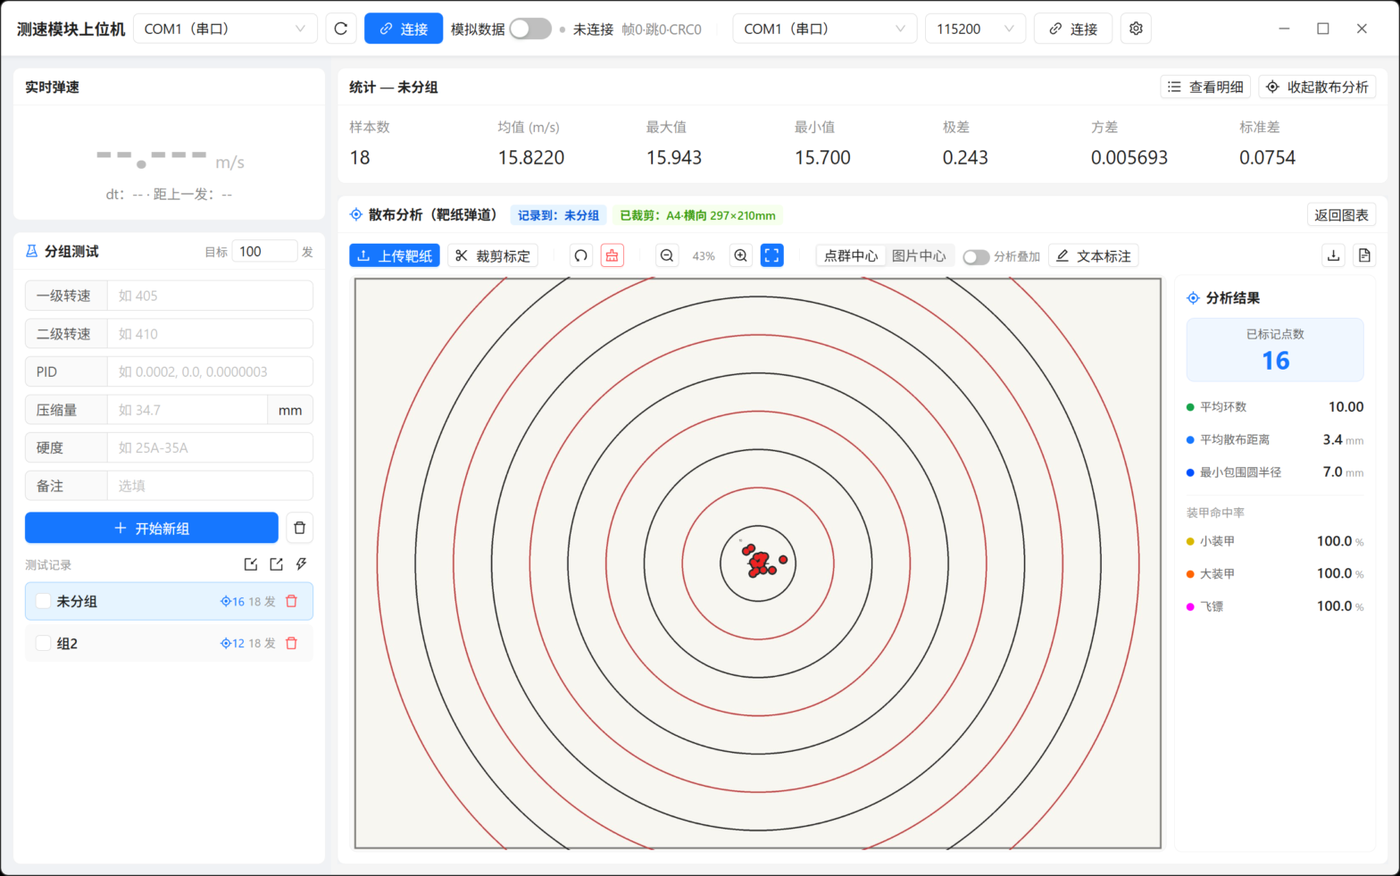
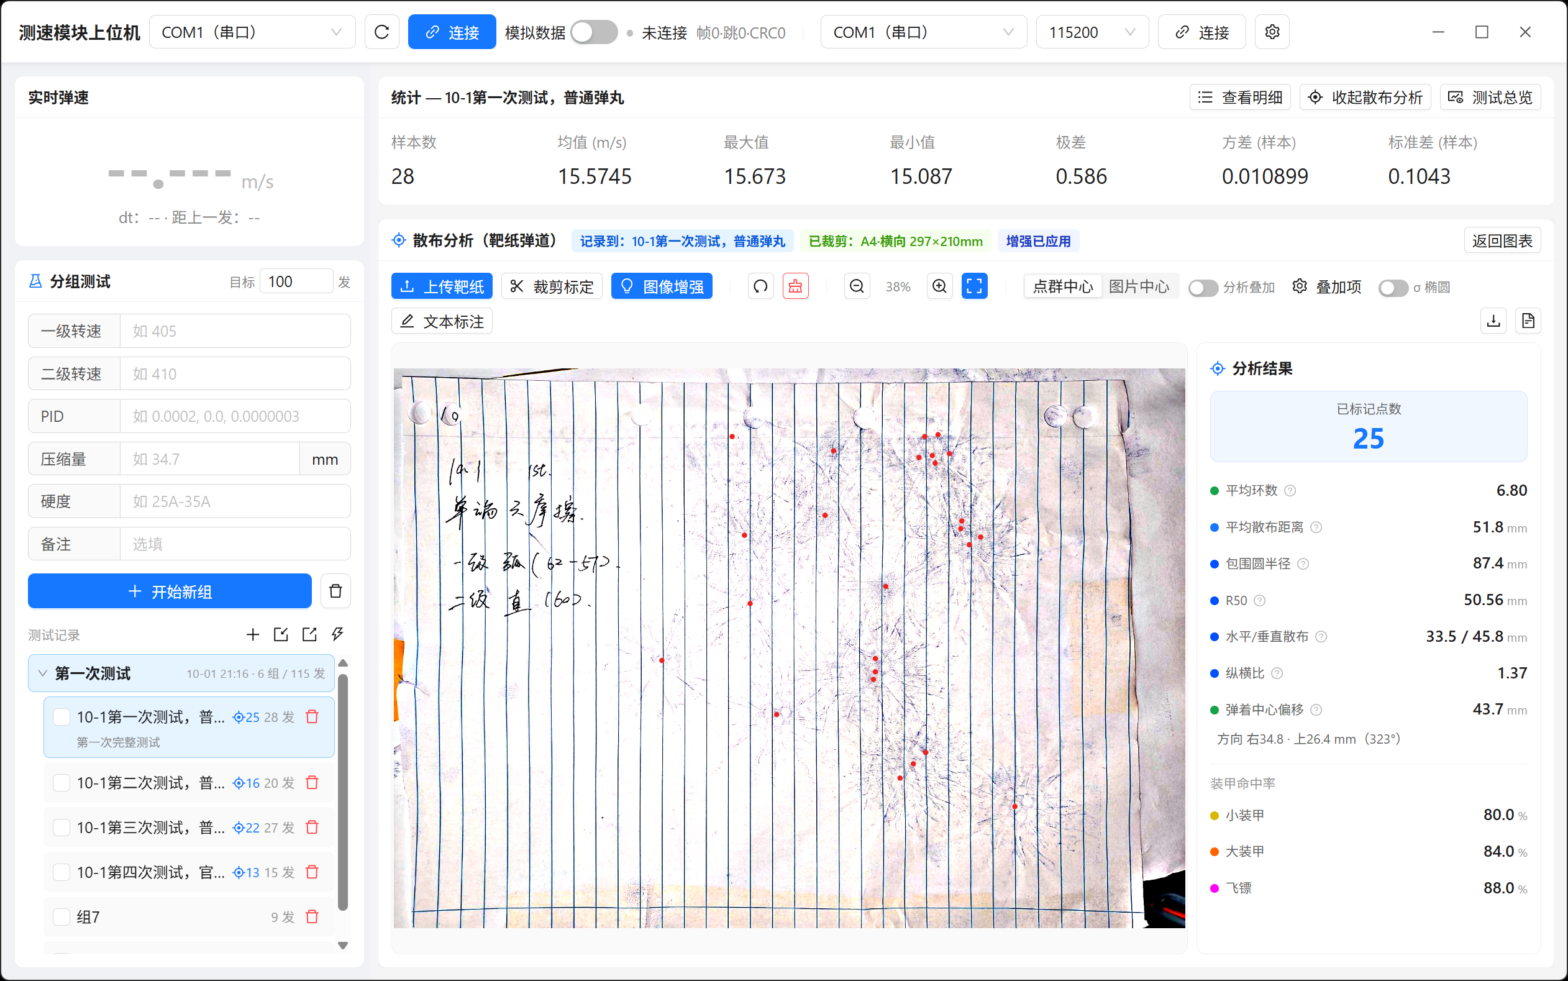
修窗口缩放后布局错位：整页锁定 100vh 不再出现页面级滚动；散布画布适配测量加防抖与异常值过滤（改窗口途中量到 0 直接跳过）并在 window resize 时重算；DispersionPanel 不再导出非组件常量（此前破坏 Fast Refresh，热更新会留下半新半旧的元素）；分析结果栏 208px→clamp(260~330)，标签精简+悬浮说明，方向行压缩

diff --git a/src/components/DispersionPanel.tsx b/src/components/DispersionPanel.tsx
@@ -25,6 +25,7 @@ import {
   ExpandOutlined,
   FileImageOutlined,
   FileTextOutlined,
+  QuestionCircleOutlined,
   ScissorOutlined,
   SettingOutlined,
   UndoOutlined,
@@ -242,7 +243,7 @@ interface SigmaEllipse {
 }
 
 /** 分析叠加里可单独开关的图层 */
-export type OverlayLayer =
+type OverlayLayer =
   | "ringScore"
   | "center"
   | "rings"
@@ -251,9 +252,9 @@ export type OverlayLayer =
   | "dart"
   | "mec";
 
-export type OverlayFlags = Record<OverlayLayer, boolean>;
+type OverlayFlags = Record<OverlayLayer, boolean>;
 
-export const OVERLAY_LAYERS: {
+const OVERLAY_LAYERS: {
   key: OverlayLayer;
   label: string;
   color?: string;
@@ -272,7 +273,7 @@ export const OVERLAY_LAYERS: {
   { key: "mec", label: "最小包围圆", color: COLORS.mec, hint: "包住全部弹孔的最小圆" },
 ];
 
-export const DEFAULT_OVERLAY: OverlayFlags = {
+const DEFAULT_OVERLAY: OverlayFlags = {
   ringScore: true,
   center: true,
   rings: true,
@@ -412,33 +413,45 @@ function MetricRow(props: {
   value: string;
   unit?: string;
   color: string;
+  /** 悬浮说明：解释文字收进 tooltip，面板里只留标签，省横向空间 */
+  hint?: string;
 }) {
+  const body = (
+    <Space size={6}>
+      <span
+        style={{
+          width: 8,
+          height: 8,
+          borderRadius: 4,
+          background: props.color,
+          display: "inline-block",
+        }}
+      />
+      <span style={{ fontSize: 12, color: "#666", whiteSpace: "nowrap" }}>
+        {props.label}
+      </span>
+      {props.hint && (
+        <QuestionCircleOutlined style={{ fontSize: 11, color: "#bbb" }} />
+      )}
+    </Space>
+  );
   return (
     <div
       style={{
         display: "flex",
         alignItems: "center",
         justifyContent: "space-between",
+        gap: 8,
         padding: "5px 0",
       }}
     >
-      <Space size={6}>
-        <span
-          style={{
-            width: 8,
-            height: 8,
-            borderRadius: 4,
-            background: props.color,
-            display: "inline-block",
-          }}
-        />
-        <span style={{ fontSize: 12, color: "#666" }}>{props.label}</span>
-      </Space>
+      {props.hint ? <Tooltip title={props.hint}>{body}</Tooltip> : body}
       <span
         style={{
           fontSize: 15,
           fontWeight: 600,
           fontVariantNumeric: "tabular-nums",
+          whiteSpace: "nowrap",
         }}
       >
         {props.value}
@@ -638,23 +651,29 @@ export default function DispersionPanel(props: { onBack: () => void }) {
     : { w: 0, h: 0 };
   const mmPerPx = natural.w > 0 ? effSpec.w / natural.w : 0;
 
-  // 适应模式：按容器实时计算显示尺寸（允许放大），容器变化时跟随
+  // 适应模式：按容器实时计算显示尺寸（允许放大）
+  // 容器 ResizeObserver + 窗口 resize 双保险；改窗口途中可能量到 0 或极小值，
+  // 这种异常测量直接跳过，避免把错误的比例存进 state 导致画面位置不对
   useEffect(() => {
     const el = wrapRef.current;
     if (!el || !img || !autoFit) return;
     const update = () => {
       const cw = el.clientWidth - 4;
       const ch = el.clientHeight - 4;
+      if (cw < 40 || ch < 40) return;
       const r = Math.min(cw / img.naturalWidth, ch / img.naturalHeight);
-      setFitSize({
-        w: Math.max(1, Math.round(img.naturalWidth * r)),
-        h: Math.max(1, Math.round(img.naturalHeight * r)),
-      });
+      const w = Math.max(1, Math.round(img.naturalWidth * r));
+      const h = Math.max(1, Math.round(img.naturalHeight * r));
+      setFitSize((prev) => (prev && prev.w === w && prev.h === h ? prev : { w, h }));
     };
     update();
     const ro = new ResizeObserver(update);
     ro.observe(el);
-    return () => ro.disconnect();
+    window.addEventListener("resize", update);
+    return () => {
+      ro.disconnect();
+      window.removeEventListener("resize", update);
+    };
   }, [img, autoFit]);
 
   /** 手动缩放时，以当前适应比例作为起点 */
@@ -1444,7 +1463,7 @@ export default function DispersionPanel(props: { onBack: () => void }) {
         {/* 结果区 */}
         <div
           style={{
-            width: 208,
+            width: "clamp(260px, 22vw, 330px)",
             flexShrink: 0,
             overflow: "auto",
             background: "#fff",
@@ -1483,58 +1502,66 @@ export default function DispersionPanel(props: { onBack: () => void }) {
           <MetricRow
             label="平均环数"
             color={COLORS.ring}
+            hint="每个弹孔到弹着中心的平均环数（每 14 mm 一环，10 环在中心）"
             value={analysis ? analysis.score.toFixed(2) : "-"}
           />
           <MetricRow
             label="平均散布距离"
             color="#1677ff"
+            hint="每个弹孔到弹着中心的平均距离，越小越集中"
             value={analysis ? analysis.avgDist.toFixed(1) : "-"}
             unit="mm"
           />
           <MetricRow
-            label="最小包围圆半径"
+            label="包围圆半径"
             color={COLORS.mec}
+            hint="包住全部弹孔的最小圆半径"
             value={analysis ? (analysis.mec.radius * mmPerPx).toFixed(1) : "-"}
             unit="mm"
           />
           <MetricRow
-            label="R50（半数落点半径）"
+            label="R50"
             color={COLORS.mec}
+            hint="半数落点半径：一半弹孔落在这个半径内，越小越密集"
             value={geo ? geo.r50.toFixed(2) : "-"}
             unit="mm"
           />
           <MetricRow
-            label="水平/垂直散布 Cx·Cy"
+            label="水平/垂直散布"
             color={COLORS.mec}
+            hint="Cx / Cy：落点在水平、垂直方向的样本标准差"
             value={geo ? `${geo.cx.toFixed(1)} / ${geo.cy.toFixed(1)}` : "-"}
             unit="mm"
           />
           <MetricRow
             label="纵横比"
             color={COLORS.mec}
+            hint="Cx ÷ Cy，> 1 表示横向比纵向散"
             value={geo ? geo.aspect.toFixed(2) : "-"}
             unit=""
           />
           <MetricRow
             label="弹着中心偏移"
             color={COLORS.center}
+            hint="点群重心相对靶纸中心的距离"
             value={geo ? geo.dist.toFixed(1) : "-"}
             unit="mm"
           />
           {geo && (
-            <div
-              style={{
-                fontSize: 12,
-                color: "#666",
-                padding: "2px 0 6px 6px",
-                lineHeight: 1.6,
-              }}
-            >
-              方向：{geo.dx >= 0 ? "右" : "左"}
-              {Math.abs(geo.dx).toFixed(1)} · {geo.dy >= 0 ? "下" : "上"}
-              {Math.abs(geo.dy).toFixed(1)} mm（{geo.angleDeg.toFixed(0)}
-              °，0°=正右，90°=正下）
-            </div>
+            <Tooltip title="以靶纸中心为原点，角度 0° 为正右、顺时针增大（90° 正下）">
+              <div
+                style={{
+                  fontSize: 12,
+                  color: "#666",
+                  padding: "2px 0 6px 6px",
+                  lineHeight: 1.5,
+                }}
+              >
+                方向 {geo.dx >= 0 ? "右" : "左"}
+                {Math.abs(geo.dx).toFixed(1)} · {geo.dy >= 0 ? "下" : "上"}
+                {Math.abs(geo.dy).toFixed(1)} mm（{geo.angleDeg.toFixed(0)}°）
+              </div>
+            </Tooltip>
           )}
           <Divider style={{ margin: "8px 0" }} />
           <div style={{ fontSize: 12, color: "#999", marginBottom: 2 }}>

diff --git a/src/App.tsx b/src/App.tsx
@@ -180,7 +180,9 @@ export default function App() {
   }, []);
 
   return (
-    <Layout style={{ minHeight: "100vh" }}>
+    // 固定视口高度、整页不滚动：所有超出都交给各区域内滚，
+    // 避免窗口最大化/还原后整页被滚动、元素跑到视口外
+    <Layout style={{ height: "100vh", overflow: "hidden" }}>
       <Header
         style={{
           background: "#fff",
@@ -188,6 +190,7 @@ export default function App() {
           boxShadow: "0 1px 4px rgba(0,21,41,0.08)",
           zIndex: 1,
           height: "auto",
+          flexShrink: 0,
           padding: 0,
           lineHeight: "normal",
         }}
@@ -210,12 +213,15 @@ export default function App() {
           <WindowControls />
         </div>
       </Header>
-      <Layout style={{ flexDirection: "row" }}>
+      <Layout
+        style={{ flexDirection: "row", flex: 1, minHeight: 0, overflow: "hidden" }}
+      >
         <div
           style={{
             width: 340,
             flexShrink: 0,
             minHeight: 0,
+            overflow: "hidden",
             background: "#f0f2f5",
             padding: "12px 6px 12px 12px",
             display: "flex",
@@ -229,6 +235,8 @@ export default function App() {
           style={{
             padding: "12px 12px 12px 6px",
             overflow: "auto",
+            minWidth: 0,
+            minHeight: 0,
             display: "flex",
             flexDirection: "column",
           }}

diff --git a/src/App.css b/src/App.css
@@ -8,8 +8,16 @@
   box-sizing: border-box;
 }
 
+/* 固定视口：整页不出现滚动条（否则窗口缩放后元素会跟着页面偏移） */
+html,
+body,
+#root {
+  height: 100%;
+}
+
 body {
   margin: 0;
+  overflow: hidden;
 }
 
 .main-content-stack {
@@ -24,7 +32,7 @@ body {
 .charts-area {
   position: relative;
   flex: 1;
-  min-height: 560px;
+  min-height: 420px;
 }
 
 /* 弹速明细覆盖层：直接盖住下方所有图表，图表保持挂载、数据不丢 */
